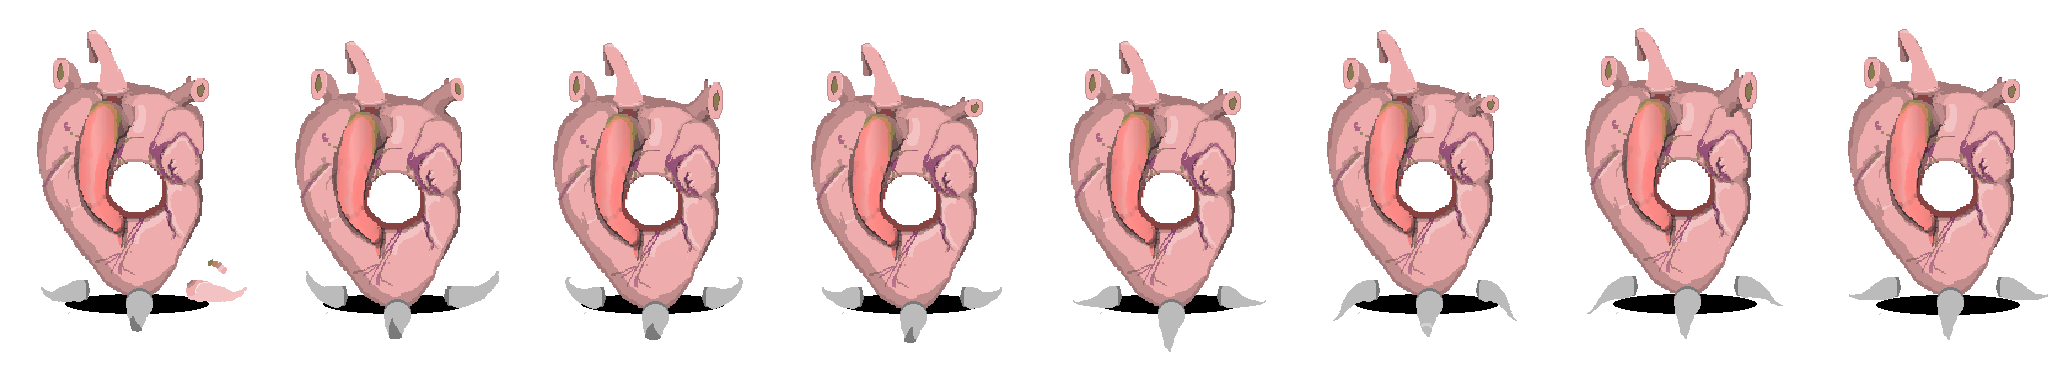
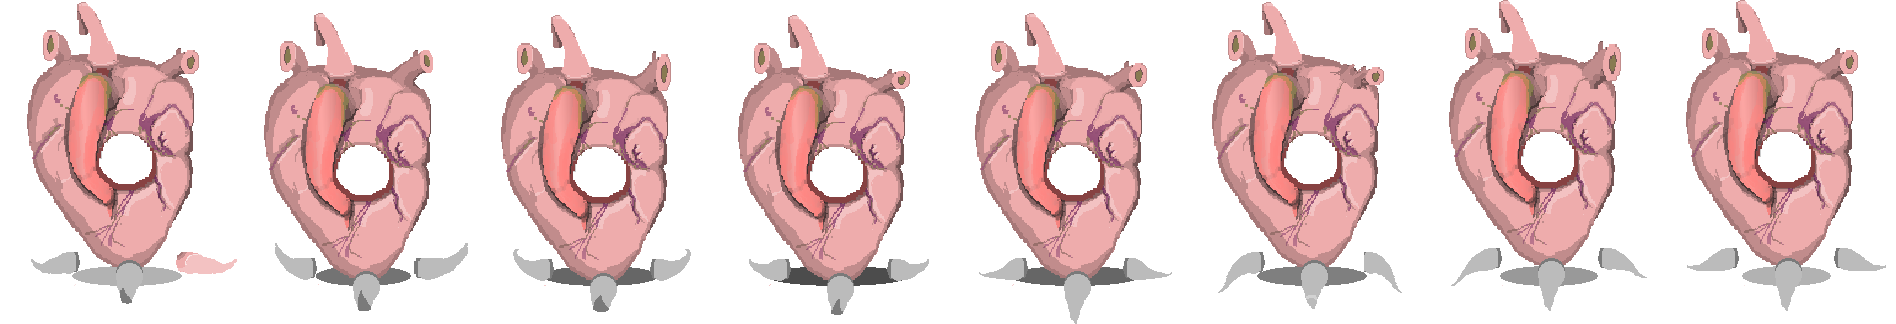
[FIRST BOSS] First Attack boss

diff --git a/src/Customs/FirstBossScript.cpp b/src/Customs/FirstBossScript.cpp
@@ -14,18 +14,26 @@ void FirstBossScript::Start() {
 }
 void FirstBossScript::CreateAnimations(){
 
-  auto firstBossImage = new Image("assets/boss1.png",0,0,2048, 372);
+  auto firstBossImage = new Image("assets/boss1.png",0,0,1896, 324);
   auto firstBossJumpImage = new Image("assets/boss1_jump.png",0,0,1180, 406);
 
 
   auto firstBossAnimation= new Animation(GetOwner(),firstBossImage );
   for (int i = 0; i < 8; i++)
-    firstBossAnimation->AddFrame(new Frame(i * 256,0, 256, 372));
+    firstBossAnimation->AddFrame(new Frame(i * 237,0, 237, 406));
 
 
   auto firstBossJumpAnimation= new Animation(GetOwner(),firstBossJumpImage );
-  for (int i = 0; i < 5; i++)
+  for (int i = 0; i < 5; i++){
     firstBossJumpAnimation->AddFrame(new Frame(i * 236,0, 236, 406));
+    firstBossJumpAnimation->AddFrame(new Frame(i * 236,0, 236, 406)); 
+    if(i==4){
+      for(int animMulti = 0 ; i < 8 ; i++){
+        firstBossJumpAnimation->AddFrame(new Frame(i * 236,0, 236, 406));
+        firstBossJumpAnimation->AddFrame(new Frame(i * 236,0, 236, 406)); 
+      }
+    }   
+  }
 
 
 
@@ -40,53 +48,106 @@ void FirstBossScript::CreateAnimations(){
 
 
 void FirstBossScript::ComponentUpdate() {
+  //Debug Collider
+  //auto vec = Vector(firstBossCollider->GetRectanglePoint().m_x,firstBossCollider->GetRectanglePoint().m_y);
+  //GraphicsSystem::GetInstance()->DrawFillRectangle(vec, GetOwner()->GetWidth(), GetOwner()->GetHeight(), 255,0,0,100);
+  
+  if(!SecondAttack){
+    animator->PlayAnimation("firstBossAnimation"); //Idle animation
+    
+  }
 
-  auto vec = Vector(firstBossCollider->GetRectanglePoint().m_x,firstBossCollider->GetRectanglePoint().m_y);
-  GraphicsSystem::GetInstance()->DrawFillRectangle(vec, GetOwner()->GetWidth(), GetOwner()->GetHeight(), 255,0,0,100);
-  animator->PlayAnimation("firstBossAnimation");
+
+  if((timerSecondAttack.GetTime() >= 0.5*1000) && SecondAttack ){
+     if(GetOwner()->GetPosition()->m_y > -1900){
+      Vector *newPosition = GetOwner()->GetPosition();
+       
+      newPosition->m_y = newPosition->m_y - 90;
+      GetOwner()->SetPosition(*newPosition);
+    }
+  }
+  if(timerSecondAttack.GetTime() >= 1*1000){
+      SecondAttack = false;
+
+    }
+    
+
+   
     
   //animator->PlayAnimation("firstBossJumpAnimation");
+  
     
 
 }
 
 
 void FirstBossScript::FixedComponentUpdate() {
+  
 
-  timerFirstAttackCooldown.Update(EngineGlobals::fixed_update_interval);
+    timerFirstAttackCooldown.Update(EngineGlobals::fixed_update_interval);
   
   if(goneFirstAttack)
     timerFirstAttackGone.Update(EngineGlobals::fixed_update_interval);
+ 
+  if(SecondAttack)
+    timerSecondAttack.Update(EngineGlobals::fixed_update_interval);
 
+
+  timerAttackCooldown.Update(EngineGlobals::fixed_update_interval);
   Attack();
 }
 
 void FirstBossScript::Attack(){
 
-  //cout << "FirstBossScript" << endl;
 
   if(GetOwner()->active){
     //rand first attack or second attack
-    if(timerFirstAttackCooldown.GetTime() >= 3*1000 && firstAttackCounter < 3){
+    
 
-      FirstBossController::GetInstance()->FirstAttackSurge();
-      timerFirstAttackCooldown.Restart();
-      firstAttackCounter++;
-      //delay for next sord
+    if(timerAttackCooldown.GetTime() >= 10*1000){ // chosse new number
+      //int randNum = rand() % 2;
+      randNumber = 1;
+      //timerFirstAttackCooldown.Restart();
     }
-    if(firstAttackCounter == 3){ //Activate timer to gone tentacle
-      goneFirstAttack = true;
-    }
+    
+    //if(randNumber){
+      //FirstAttack = true;
+      /** First Attack **/
+      if(timerFirstAttackCooldown.GetTime() >= 2*1000 && firstAttackCounter < 3){
 
-    if(timerFirstAttackGone.GetTime() >= 6*1000){ //wait 6 seconds to make attack gone
-      FirstBossController::GetInstance()->FirstAttackGone();
-    }
+        FirstBossController::GetInstance()->FirstAttackSurge();
+        timerFirstAttackCooldown.Restart();
+        firstAttackCounter++;
+        //delay for next sord
+      }
+      if(firstAttackCounter == 3){ //Activate timer to gone tentacle
+        goneFirstAttack = true;
+      }
+
+      if(timerFirstAttackGone.GetTime() >= 2*1000){ //wait 6 seconds to make attack gone
+        FirstBossController::GetInstance()->FirstAttackGone();
+      
+        firstAttackCounter = 0;
+        goneFirstAttack = false;
+        timerFirstAttackGone.Restart();
+        timerFirstAttackCooldown.Restart();
+       
+      }
+    //}else{
+        /** Second Attack **/ 
+//      SecondAttack = true;
+//      animator->PlayAnimation("firstBossJumpAnimation");
+    //}
+
+
+   
+
 
 
   }
   
 
  
-  //Random attack 1 e 2
+ 
 
 }

diff --git a/src/Customs/PlayerAttackScript.cpp b/src/Customs/PlayerAttackScript.cpp
@@ -33,10 +33,7 @@ void PlayerAttackScript::ComponentUpdate() {
     
     player =  SceneManager::GetInstance()->GetCurrentScene()->GetGameObject("NakedMan");
     
-    //Deactivate Object when it comer out of windowsd
-    if(position->m_x > EngineGlobals::screen_width || position->m_x < 0){ 
-      //GetOwner()->active = false;
-    }
+   
 
 
 
@@ -52,7 +49,7 @@ void PlayerAttackScript::ComponentUpdate() {
 
 
       if(shoot){
-
+        GetOwner()->active = true;
         angle = playerPosition.GetAngleRadians(mousePosition);
         bulletVelocity.m_x = bulletSpeed * cos(angle);
         bulletVelocity.m_y = bulletSpeed * sin(angle);
@@ -62,9 +59,6 @@ void PlayerAttackScript::ComponentUpdate() {
       }
     }
 
-    //if(shoot==false){
-    //animator->StopAllAnimations();
-    //}
 
 }
 void PlayerAttackScript::FixedComponentUpdate() { 
@@ -79,17 +73,18 @@ void PlayerAttackScript::FixedComponentUpdate() {
 void PlayerAttackScript::GameCollisionCheck() {
   for (auto obj : GetOwner()->GetCollisions()) {
     if (obj->GetTag() == "Bullet") {
-      cout << "Bullet Colider" << endl;
+      //cout << "Bullet Colider" << endl;
       GetOwner()->ClearCollisions();
       
     }else if(obj->GetTag() == "FirstBoss"){
       cout << "Boss Colider" << endl;
-      GetOwner()->ClearCollisions();
       auto firstBossLifeScript = (FirstBossLifeScript*)SceneManager::GetInstance()
                    ->GetCurrentScene()
                    ->GetGameObject("FirstBossLife")
                    ->GetComponent("FirstBossLifeScript");
       firstBossLifeScript->hit = true;
+      GetOwner()->active = false;
+      GetOwner()->ClearCollisions();
 
 
     }else if(obj->GetTag() == "FirstBossAtack"){

diff --git a/src/Customs/NakedManScript.cpp b/src/Customs/NakedManScript.cpp
@@ -299,34 +299,40 @@ else if (input->GetKeyPressed(INPUT_W)) {
 }
   //Sair para o Menu
   if (InputSystem::GetInstance()->GetKeyUp(INPUT_ESCAPE)) {
+    /*
     auto var = (UIText *)SceneManager::GetInstance()
                    ->GetScene("Main")
                    ->GetGameObject("Play")
                    ->GetComponent("UIText");
     var->SetText("Continue");
-    SceneManager::GetInstance()->SetCurrentScene("Main");
+    */
+    //SceneManager::GetInstance()->SetCurrentScene("Main");
+    SDLSystem::GetInstance()->SetRunning(false);
   }
 
   //Shoot gun
   if (InputSystem::GetInstance()->GetKeyDown(INPUT_SPACE)) {
       
       cout << "ammo: " << bulletNumber << endl;
+      
+      auto gameObjectBullet = (GameObject*)SceneManager::GetInstance()
+                   ->GetCurrentScene()
+                   ->GetGameObject("Bullet" + std::to_string(bulletNumber));
+      gameObjectBullet->active = true;
+
       auto script = (PlayerAttackScript*)SceneManager::GetInstance()
                    ->GetCurrentScene()
                    ->GetGameObject("Bullet" + std::to_string(bulletNumber))
                    ->GetComponent("PlayerAttackScript");
       script->SetShoot(true);
 
-
-      auto gameObjectBullet = (GameObject*)SceneManager::GetInstance()
-                   ->GetCurrentScene()
-                   ->GetGameObject("Bullet" + std::to_string(bulletNumber));
-      gameObjectBullet->active = true;
-                   
+      
+                 
 
       bulletNumber--;
       
-      
+
+      /** Reload **/ 
       if(bulletNumber == 0){
         bulletNumber = 10; 
         //wait delay reload time

diff --git a/src/Customs/GamePlayScene.cpp b/src/Customs/GamePlayScene.cpp
@@ -13,7 +13,7 @@ void GamePlayScene::OnActivation() {
   CreateThunder();
   CreatePlayerAttack();
   //CreateAmmoCounter();
-  //CreatePlayerHit();
+  CreatePlayerHit();
 
   //FirstBossController::GetInstance()->StartBossFight();
 
@@ -109,6 +109,7 @@ void GamePlayScene::CreatePlayerAttack() {
     bullet->SetTag("Bullet");
     auto bulletScript = new  PlayerAttackScript(bullet);
     AddGameObject(bullet);
+    bullet->active = false;
 
     //MissileController::GetInstance()->AddPlayer(bullet);
     //bullet->active = false;               

diff --git a/src/Engine/CollisionSystem.cpp b/src/Engine/CollisionSystem.cpp
@@ -84,7 +84,7 @@ void CollisionSystem::RectRect(RectangleCollider *r1, RectangleCollider *r2) {
 
 if(((posR1.m_x <= (posR2.m_x + r2->GetWidth())) && ((posR1.m_x + r1->GetWidth())>=posR2.m_x)) &&
    ((posR1.m_y <=(posR2.m_y + r2->GetHeight())) && ((posR1.m_y + r1->GetHeight())>=posR2.m_y)) && 
-   (r1->active == true) && (r2->active == true))
+   (r1->GetOwner()->active == true) && (r2->GetOwner()->active == true))
   collision=true;
 
   if (collision) {

diff --git a/include/Customs/FirstBossScript.h b/include/Customs/FirstBossScript.h
@@ -35,10 +35,16 @@ private:
   Vector *position = nullptr;
   Timer timerFirstAttackCooldown;
   Timer timerFirstAttackGone;
-
+  Timer timerSecondAttack;
+  Timer timerAttackCooldown;
+  
+  bool FirstAttack = false;
   bool goneFirstAttack = false;
+  bool SecondAttack = false;
+  bool SecondAttackJump = false;
 
   int firstAttackCounter = 0;
+  int randNumber = 1;
 
 
 };
